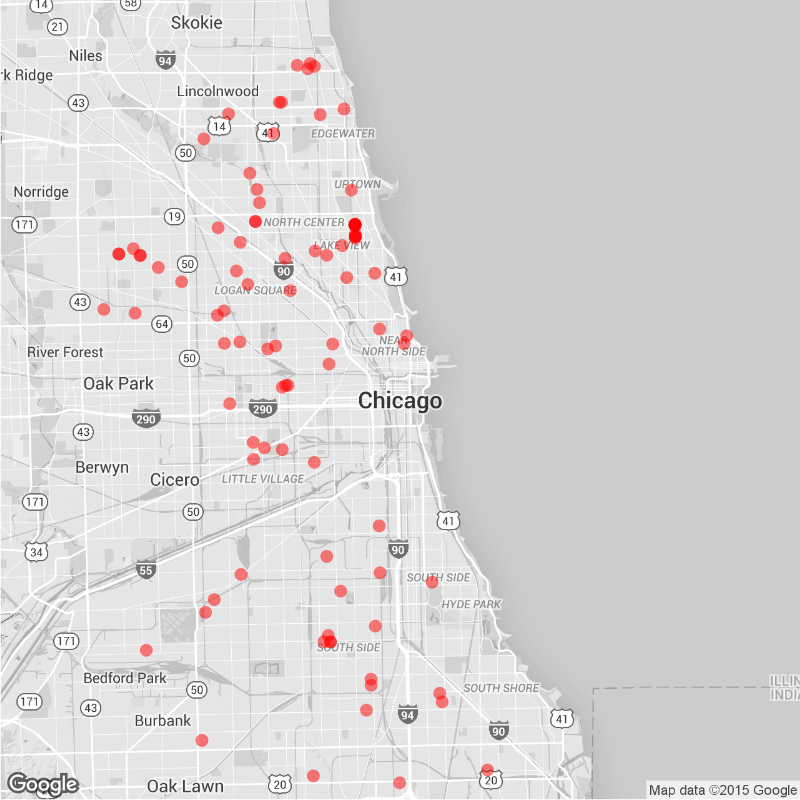
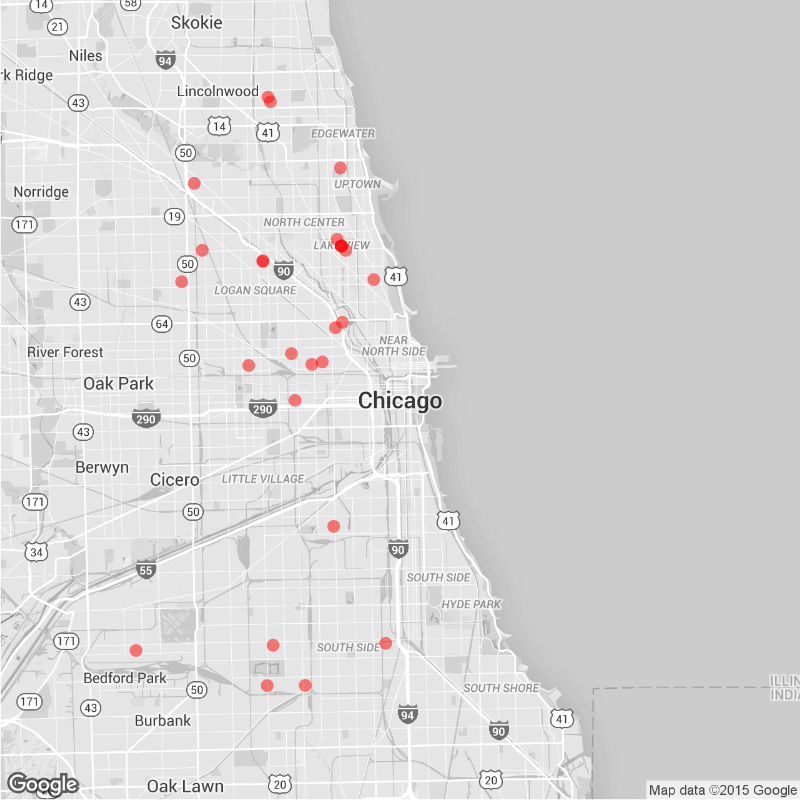
Daily Maps

diff --git a/daily.md b/daily.md
@@ -15,22 +15,22 @@ tags: Chicago NYC weekly daily rats
 
 ### Daily
 
-Yesterday (November 13), there were 92 calls to Chicago's 311 line about rats.
+Yesterday (November 14), there were 27 calls to Chicago's 311 line about rats.
 ![Chicago rat calls to 311 weekly map]({{ site.cityimages }}/daily/Chicago_Rat_Map_Daily.png)
 
 ### Weekly
-Between November 07 and November 13, there were 713 calls to Chicago's 311 line about rats. The average number of weekly calls for this time of year is 436.
+Between November 08 and November 14, there were 699 calls to Chicago's 311 line about rats. The average number of weekly calls for this time of year is 436.
 ![Chicago rat calls to 311 weekly map]({{ site.cityimages }}/daily/Chicago_Rat_Map_Weekly.png)
 ***
 # New York City <a id="nyc"><a>
 
 ### Daily
 
-Yesterday (November 13), there were 0 calls to New York City's 311 line about rats.
+Yesterday (November 14), there were 0 calls to New York City's 311 line about rats.
 ![NYC rat calls to 311 weekly map]({{ site.cityimages }}/daily/NYC_Rat_Map_Daily.png)
 
 ### Weekly
-Between November 07 and November 13, there were 0 calls to New York City's 311 line about rats. The average number of weekly calls for this time of year is 152.
+Between November 08 and November 14, there were 0 calls to New York City's 311 line about rats. The average number of weekly calls for this time of year is 152.
 ![NYC rat calls to 311 weekly map]({{ site.cityimages }}/daily/NYC_Rat_Map_Weekly.png)
 
 Each red dot represents one call about a rat seen in that location. The dots are transparent, so multiple calls from one location will be seen as a solid dot. The usual caveats apply: more calls do not necessarily mean that there are more rats in that location than other parts of the city. A cluster of dots could indicate that one resident is unusually vocal about rodents in his or her neighborhood. Also, more densely populated neighborhoods tend to make more calls to 311.
